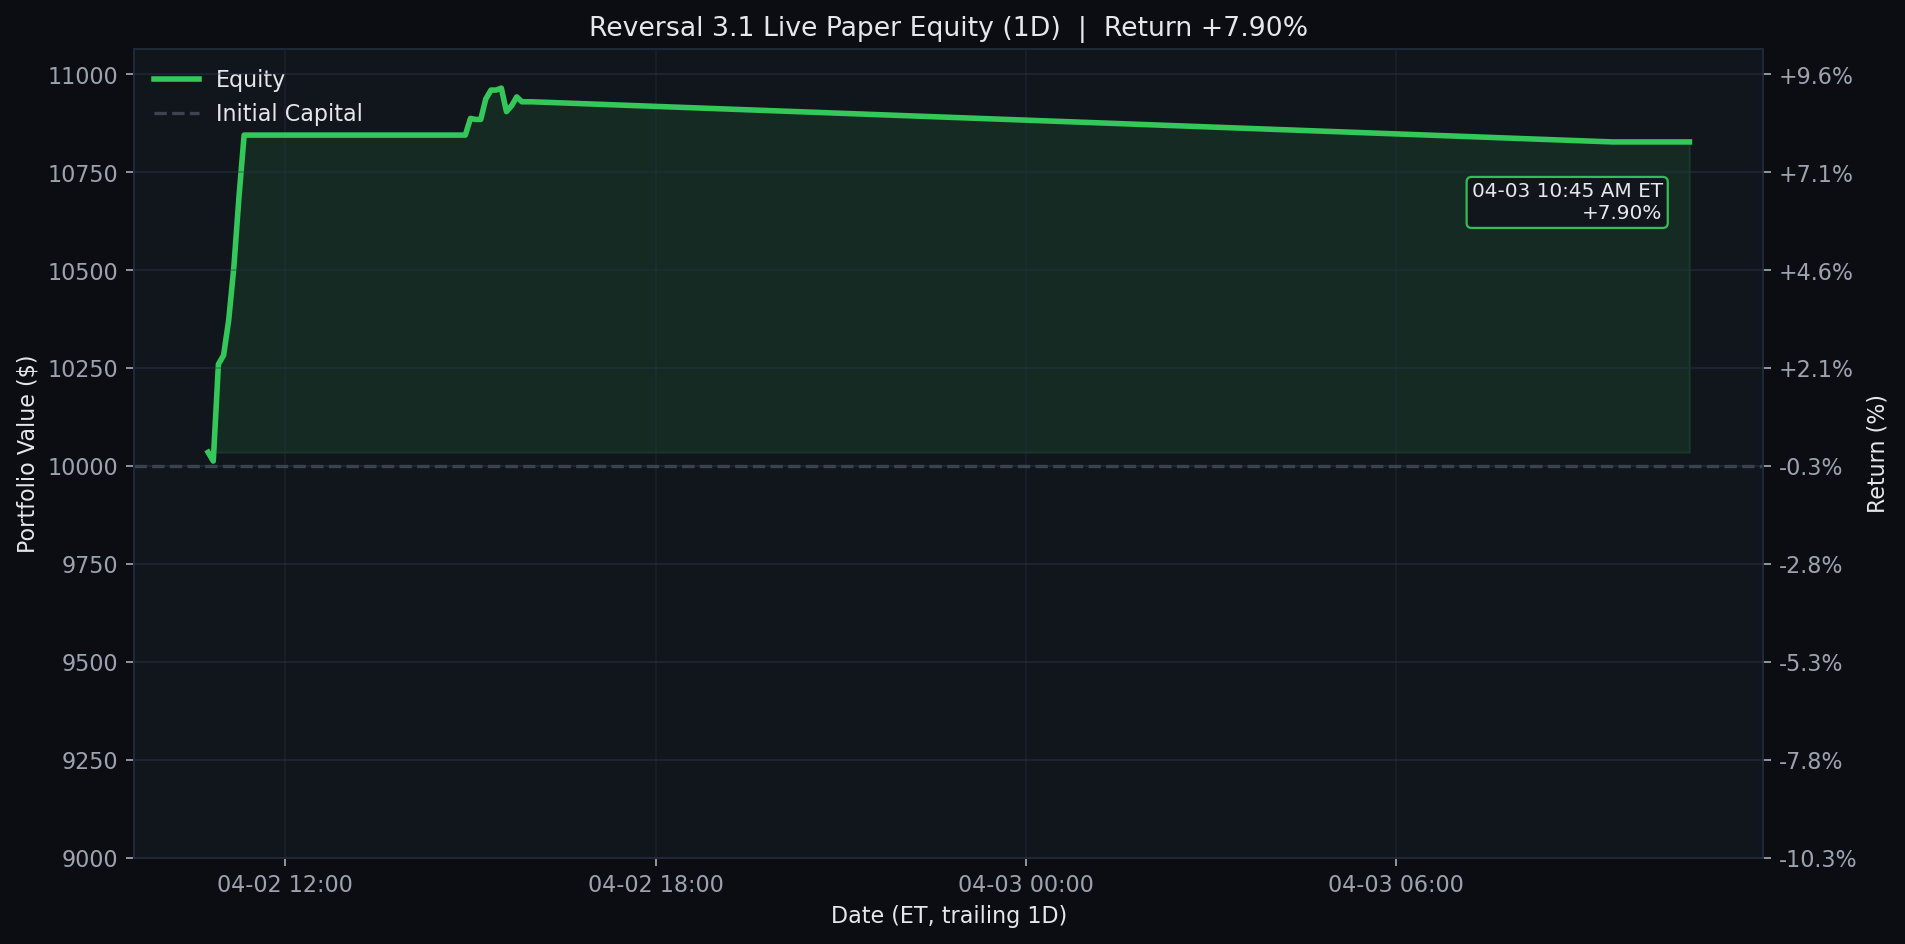
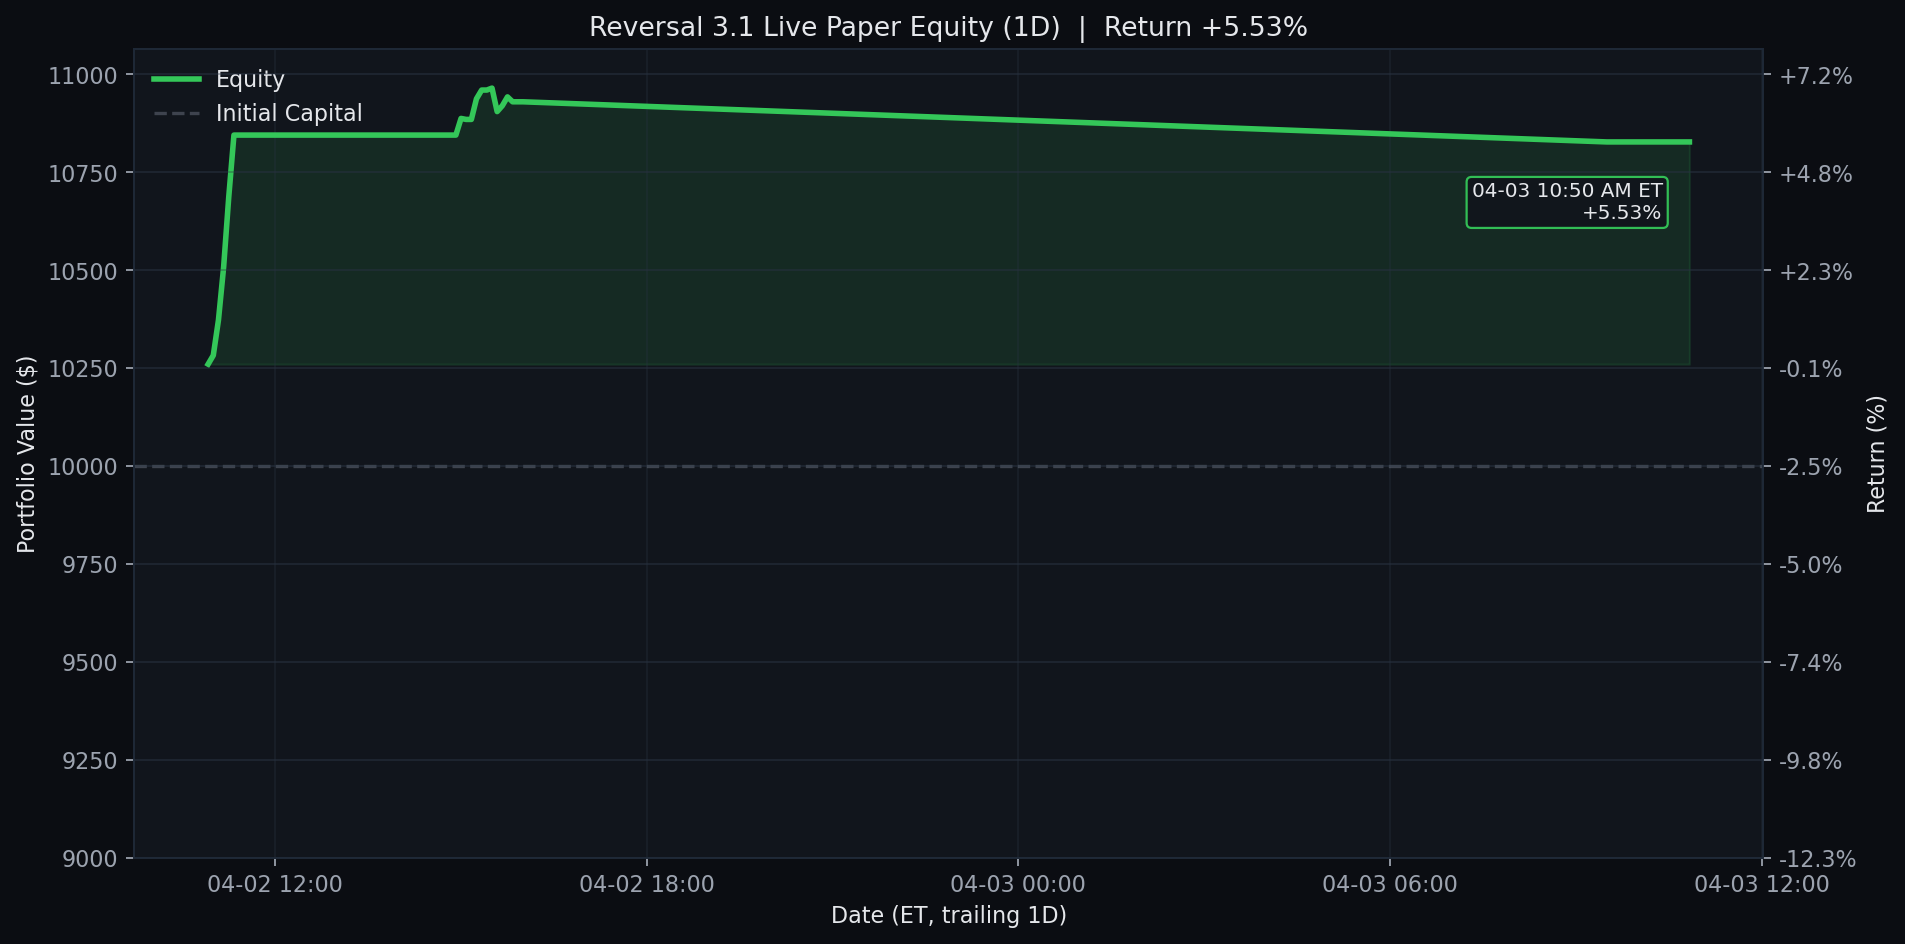
Update Reversal 3.1 live paper test 2026-04-03 10:50 ET

diff --git a/README.md b/README.md
@@ -3,10 +3,10 @@
 <!-- reversal-3.1-live:start -->
 ## Reversal 3.1 Live Paper Test
 
-- Last updated (ET): `2026-04-03 10:45:00 EDT`
+- Last updated (ET): `2026-04-03 10:50:05 EDT`
 - Equity: `$10,827.50` | Realized: `$845.00` | Unrealized: `$-17.50` | Open positions: `1`
 - Today closed trades: `0`
-- Current slot: `manual_refresh`
+- Current slot: `manage_1100`
 - Universe: `qqq_plus_leverage_etfs`
 - Chart windows: `1D / 1W / 1M` (default open panel: `1W`)
 

diff --git a/results/reversal_3_1_live/README.md b/results/reversal_3_1_live/README.md
@@ -1,7 +1,7 @@
 # Reversal 3.1 Live Paper Test
 
-Last updated (ET): `2026-04-03 10:45:00 EDT`
-Last processed slot: `manual_refresh`
+Last updated (ET): `2026-04-03 10:50:05 EDT`
+Last processed slot: `manage_1100`
 
 ## Active Configuration
 
